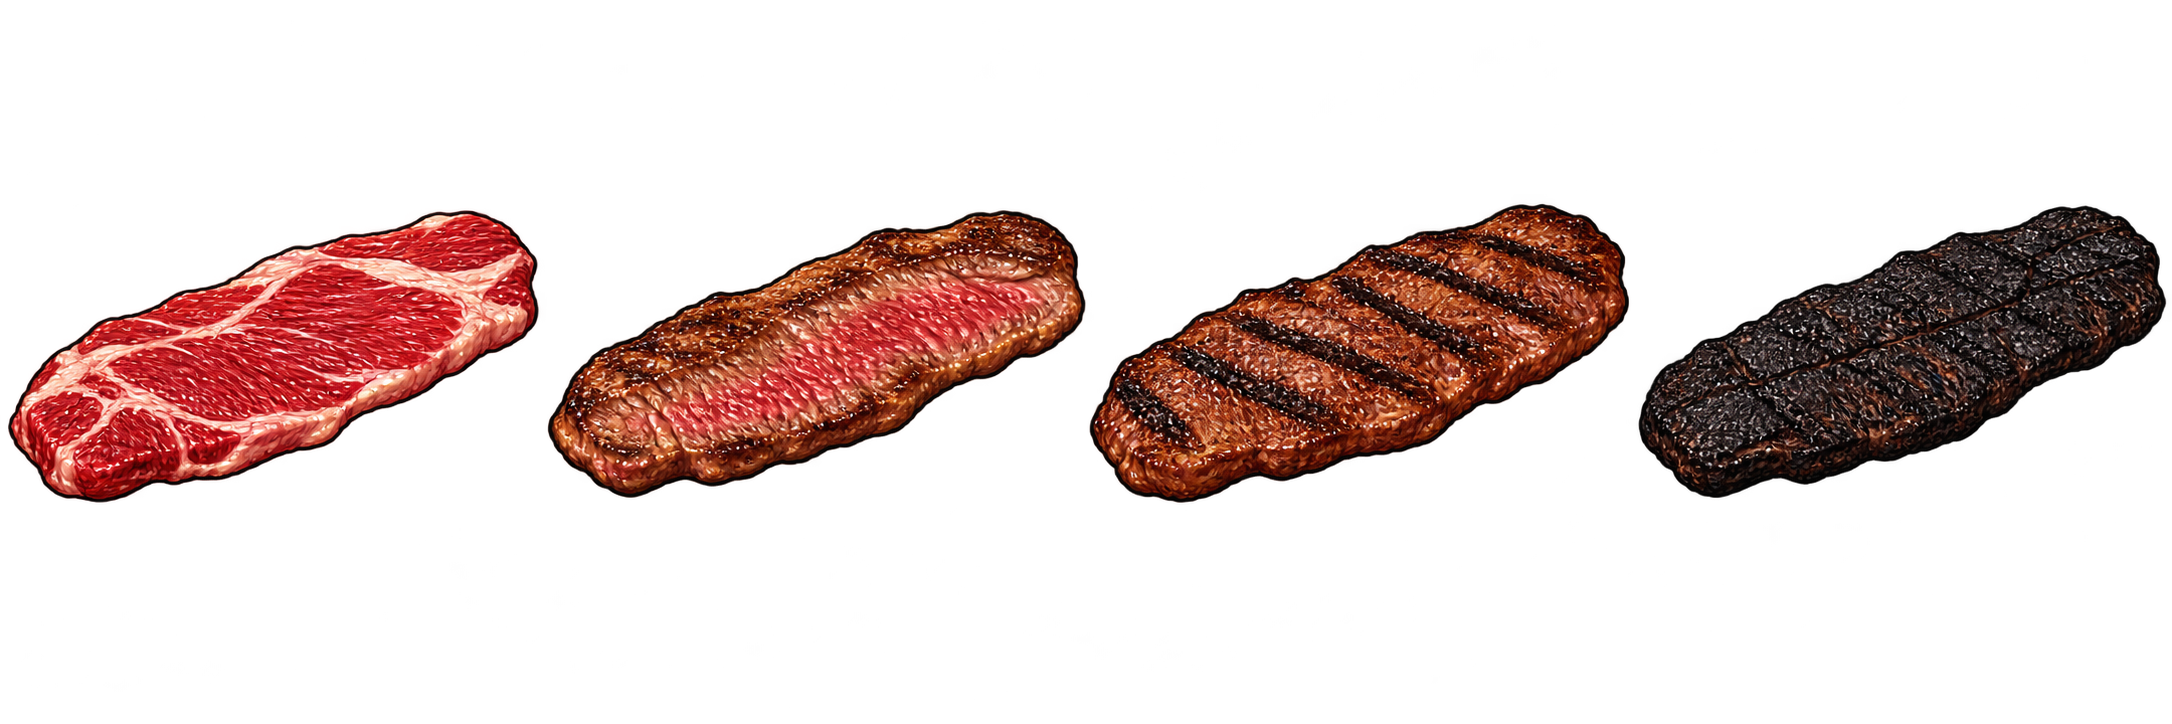
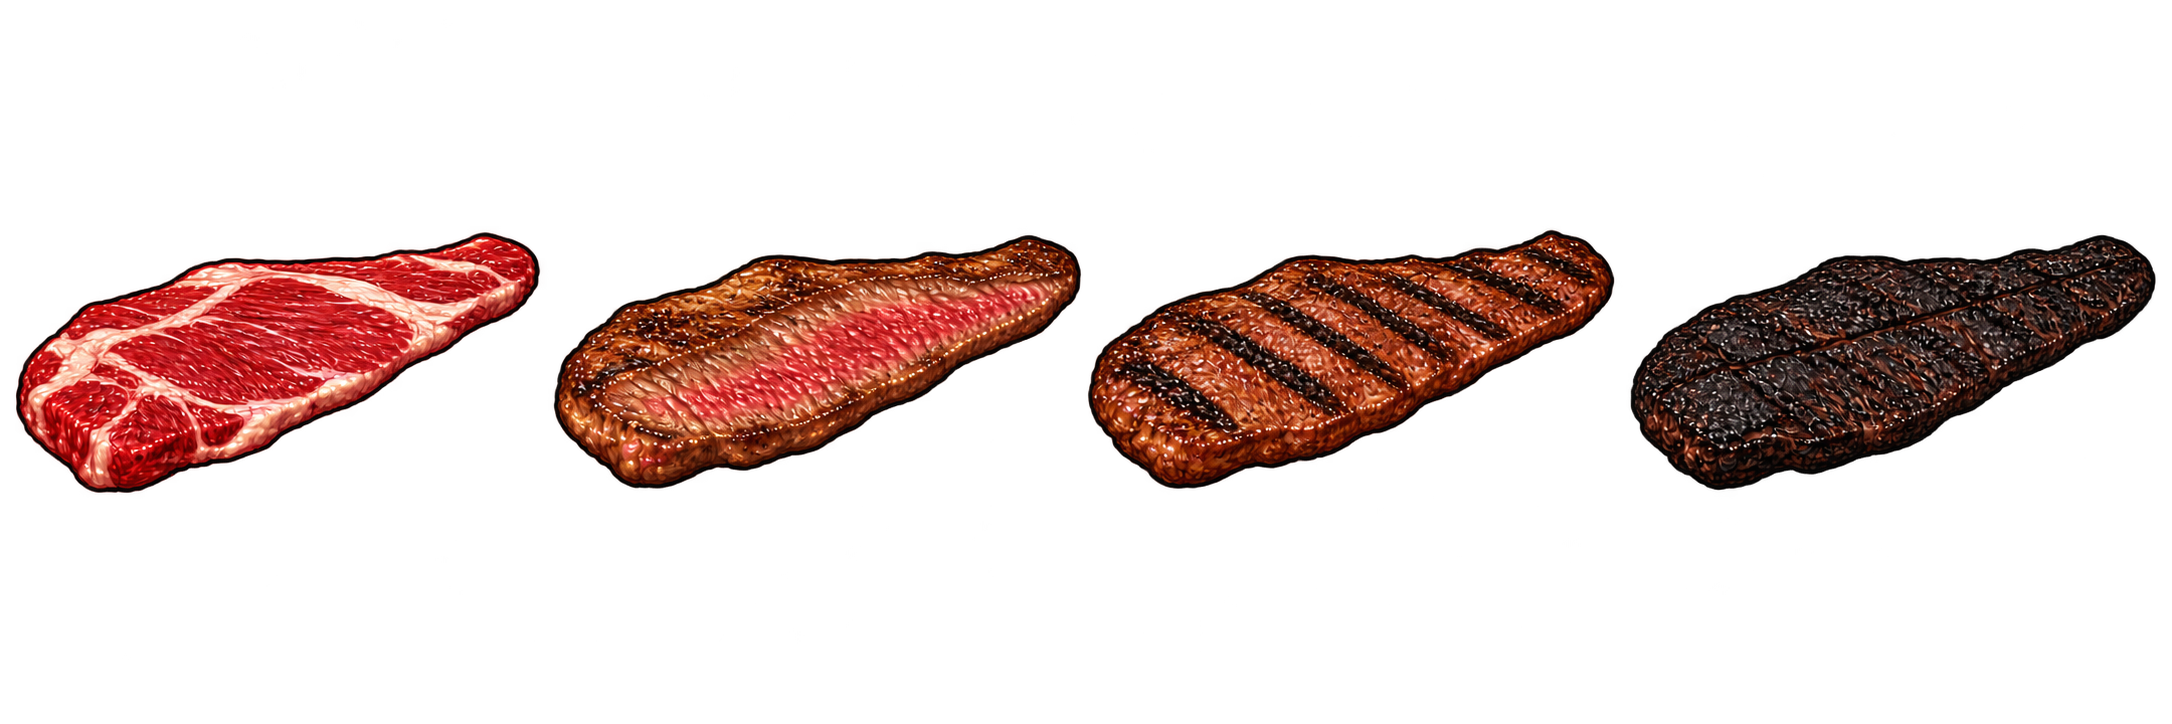
fix(unity): align kitchen stations and refine vacio art

Changed region(s): [[0.0, 0.2735, 1.0, 0.6989]]

diff --git a/Assets/Tests/EditMode/StreetKitchenPresentationTests.cs b/Assets/Tests/EditMode/StreetKitchenPresentationTests.cs
@@ -36,6 +36,7 @@ namespace HayChoriYPaty.Tests
 
         private static object Get(object target, string name) => target.GetType().GetProperty(name, BindingFlags.Public | BindingFlags.Instance).GetValue(target);
         private static Rect RectProperty(string name) => (Rect)Runtime("StreetKitchenLayout").GetProperty(name, BindingFlags.Public | BindingFlags.Static).GetValue(null);
+        private static float SceneWidth() => (float)Runtime("StreetSceneLayout").GetField("Width", BindingFlags.Public | BindingFlags.Static).GetValue(null);
         private static float WorkerServiceY() => (float)Runtime("StreetSceneLayout").GetField("WorkerServiceY", BindingFlags.Public | BindingFlags.Static).GetValue(null);
 
         [Test]
@@ -87,11 +88,17 @@ namespace HayChoriYPaty.Tests
             Rect beer = RectProperty("BeerBarrelBounds"), coca = RectProperty("CocaBarrelBounds");
             Rect normal = RectProperty("NormalTableBounds"), premium = RectProperty("PremiumTableBounds"), fernet = RectProperty("FernetTableBounds");
             Rect normalGrill = RectProperty("NormalGrillBounds"), premiumGrill = RectProperty("PremiumGrillBounds");
-            Assert.Less(beer.xMax, coca.xMin); Assert.Less(coca.xMax, normal.xMin);
             Assert.Less(normal.xMax, premium.xMin); Assert.Less(premium.xMax, fernet.xMin);
+            Assert.Less(fernet.xMax, coca.xMin); Assert.Less(coca.xMax, beer.xMin);
             Assert.AreEqual(normal.size, premium.size); Assert.AreEqual(normal.size, fernet.size);
+            Assert.AreEqual(beer.size, coca.size);
             Assert.AreEqual(normalGrill.width, premiumGrill.width); Assert.AreEqual(normalGrill.height, premiumGrill.height);
+            Assert.AreEqual(normal.y, premium.y); Assert.AreEqual(normal.y, fernet.y);
+            Assert.AreEqual(normal.y, coca.y); Assert.AreEqual(normal.y, beer.y);
+            Assert.LessOrEqual(normal.xMin, 10f); Assert.GreaterOrEqual(beer.xMax, SceneWidth() - 10f);
             Assert.AreEqual(520f, normal.y); Assert.AreEqual(620f, normalGrill.y);
+            Assert.AreEqual(normalGrill.y, premiumGrill.y);
+            Assert.LessOrEqual(normalGrill.xMin, 10f); Assert.GreaterOrEqual(premiumGrill.xMax, SceneWidth() - 10f);
             Assert.AreEqual(30f, normalGrill.y - normal.yMax, .5f);
             Assert.Less(normalGrill.yMax, 716f, "Kitchen must not cover the upgrade/status band.");
             Assert.GreaterOrEqual(normal.y - WorkerServiceY(), 120f);

diff --git a/Assets/Scripts/UI/StreetKitchenRenderer.cs b/Assets/Scripts/UI/StreetKitchenRenderer.cs
@@ -178,13 +178,15 @@ namespace HayChoriYPaty
 
         private void SyncStations()
         {
-            EnsureStation("Station_NormalGrill", StreetKitchenLayout.NormalGrillBounds, Available(0) || Available(1));
-            EnsureStation("Station_PremiumGrill", StreetKitchenLayout.PremiumGrillBounds, Available(2) || Available(3));
-            EnsureStation("Station_NormalTable", StreetKitchenLayout.NormalTableBounds, Available(0) || Available(1));
-            EnsureStation("Station_PremiumTable", StreetKitchenLayout.PremiumTableBounds, Available(2) || Available(3));
-            EnsureStation("Station_FernetTable", StreetKitchenLayout.FernetTableBounds, Available(5));
-            EnsureStation("Station_BeerBarrel", StreetKitchenLayout.BeerBarrelBounds, Available(6));
-            EnsureStation("Station_CocaBarrel", StreetKitchenLayout.CocaBarrelBounds, Available(4));
+            // Show all empty furniture shells in a stable layout; simulation availability still
+            // gates every product, item, worker, and stock flow independently.
+            EnsureStation("Station_NormalGrill", StreetKitchenLayout.NormalGrillBounds, true);
+            EnsureStation("Station_PremiumGrill", StreetKitchenLayout.PremiumGrillBounds, true);
+            EnsureStation("Station_NormalTable", StreetKitchenLayout.NormalTableBounds, true);
+            EnsureStation("Station_PremiumTable", StreetKitchenLayout.PremiumTableBounds, true);
+            EnsureStation("Station_FernetTable", StreetKitchenLayout.FernetTableBounds, true);
+            EnsureStation("Station_BeerBarrel", StreetKitchenLayout.BeerBarrelBounds, true);
+            EnsureStation("Station_CocaBarrel", StreetKitchenLayout.CocaBarrelBounds, true);
         }
 
         private bool Available(int product) => simulation != null && simulation.IsProductAvailable(product);

diff --git a/Assets/Scripts/Core/StreetKitchenLayout.cs b/Assets/Scripts/Core/StreetKitchenLayout.cs
@@ -21,12 +21,13 @@ namespace HayChoriYPaty
         public const float GrillWidth = 352f * Scale, GrillHeight = 117.3333f * Scale;
         public const float BarrelWidth = 50f * Scale, BarrelHeight = 98f * Scale;
 
-        // Preserve five-slot ordering even when a product is not unlocked. Locked stations remain empty.
-        private static readonly Rect Beer = new Rect(14f * Scale, BarrelY, BarrelWidth, BarrelHeight);
-        private static readonly Rect Coca = new Rect(76f * Scale, BarrelY, BarrelWidth, BarrelHeight);
-        private static readonly Rect NormalTable = new Rect(138f * Scale, TableY, TableWidth, TableHeight);
-        private static readonly Rect PremiumTable = new Rect(346f * Scale, TableY, TableWidth, TableHeight);
-        private static readonly Rect FernetTable = new Rect(554f * Scale, TableY, TableWidth, TableHeight);
+        // Upper row order is Normal, Premium, Fernet, Coca, Beer. Equal 12-unit native
+        // margins/gaps use the available width while preserving the current station sizes.
+        private static readonly Rect NormalTable = new Rect(12f * Scale, TableY, TableWidth, TableHeight);
+        private static readonly Rect PremiumTable = new Rect(220f * Scale, TableY, TableWidth, TableHeight);
+        private static readonly Rect FernetTable = new Rect(428f * Scale, TableY, TableWidth, TableHeight);
+        private static readonly Rect Coca = new Rect(636f * Scale, BarrelY, BarrelWidth, BarrelHeight);
+        private static readonly Rect Beer = new Rect(698f * Scale, BarrelY, BarrelWidth, BarrelHeight);
         private static readonly Rect NormalGrill = new Rect(14f * Scale, GrillY, GrillWidth, GrillHeight);
         private static readonly Rect PremiumGrill = new Rect(394f * Scale, GrillY, GrillWidth, GrillHeight);
 

diff --git a/specs/features/modular-kitchen.md b/specs/features/modular-kitchen.md
@@ -59,7 +59,7 @@ Built-in `image_gen` only (not a paid external API/CLI). Original PNGs saved und
 | meat-chori | Four equal horizontal frame cells: shallow horizontal curved elongated sausage (final variant uses simplified cartoon shading) raw pink→part brown→grill-marked cooked redbrown→black burned; same outline/angle, transparent margin in each cell. |
 | meat-paty | Four equal cells: relatively flat circular medallion raw pink→partial browning→brown grill marks→black burned; no bread. |
 | meat-bondiola | Four equal cells: thick high compact approximately cylindrical irregular pork neck roast, not steak/shredded meat; raw marbling→partial browning→golden grill marks→black char. |
-| meat-vacio | Four equal cells: long flat irregular beef flank, not patty/roast; raw red/fat→partial browning→grill marks→black char. |
+| meat-vacio | Four equal cells: long flat, asymmetric flank cut with one fuller end gradually tapering toward a narrower tip; not patty/roast; raw red/fat→partial browning→grill marks→black char. |
 | sandwich-chori | One choripán, curved grilled chorizo visibly inside elongated golden bread, chimichurri; no plate/table. |
 | sandwich-paty | One rounded bread burger, visible circular flat beef patty, thin tomato/lettuce; no sausage/pork. |
 | sandwich-bondiola | Bread roll with thick compact roast-pork slices, juicy marbled interior; no shredded pulled pork or beef patty. |
@@ -78,6 +78,8 @@ Texture sources use NPOTScale.None to preserve original dimensions, mipmaps and 
 ## Verified acceptance —2026-10-07
 
 - Native import:17PNG sources,29persistent Sprite resources,21prefabs; GUID-stable regeneration verified in ignored `Logs/Acceptance/ModularKitchen-20261007/rebuild-verification.json`.
+- 2026-10-08 visual refinement: the user-supplied grilled-meat photo is shape-only guidance for Vacío. Its independent four-state source now has a slightly broader left end tapering to a narrower right tip; state order, transparent four-cell layout and 2172×724 texture remain unchanged. Existing `.meta`/texture GUID is preserved; Unity reimport confirmed all Raw/Cooking/Cooked/Burned Sprite assets still load from the same-size texture with NPOTScale.None, mipmaps, Trilinear and alpha. `StreetKitchenPresentationTests` passed5/5 after import. Sandwich, cooking logic, positions and inventory were not changed. Existing APK0.2.17/code19 predates this PNG edit; no APK was rebuilt.
+- 2026-10-08 layout-only correction: top furniture order is Normal, Premium, Fernet, Coca, Beer; equal 196×98-native table bounds and equal 50×98-native barrel bounds use12-native-unit margins/gaps across the 540-unit canvas. The two unchanged352×117.333-native grills share y=620 and span x=9.95–530.13 (96.3% canvas width). All station shells render even when their product is locked, but the simulation continues to gate products, inventory and workers by the original level catalog. Bounds-backed pickup centers move with tables/barrels; worker lane and pickup y anchors remain unchanged. Portrait Main Game View (`Logs/Acceptance/StationLayout-20261008/station-layout-final-settled.png`, 788×1400) confirms the five upper stations and two aligned large grills fit without overlaps/offscreen. Focused `StreetKitchenPresentationTests` passed5/5, including route-clearance checks across all11 catalogs.
 - Affected EditMode149/149 (`c40409e402974e1a9038809056c6916e`), final kitchen-only12/12 (`94a96f1af330480290b425aad7b774ee`). Full project suites not repeated; historical art/geometry tests are compatibility evidence, not new live geometry proof.
 - Mouse/touch/start/specialty purchase PlayMode4/4 (`f0e7761596594ca8bf942a8df691fb21`); native tall-anchor/individual carried-object removal regression1/1 (`c3dbf7bcbb8046f9a8c2437eb8e7fa91`). Zero current Unity console errors/warnings.
 - Actual Main GameViews inspected: `independiente-final.png`1080×1920, corrected `independiente-tall-corrected.png`1220×2712, `ferro-final.png` and `floresta-final.png`, under ignored `Logs/Acceptance/ModularKitchen-20261007`. Paired grills, empty independent furniture, product-separated slots,4compact cylindrical Bondiolas/3Vacíos in full catalog, equivalent-size tables, blue plastic barrels with separate containers/ice and large straw-free Fernet glasses are native independent objects. Counter/crowd/club art and existing controls stay intact. Tall projection keeps internal food offsets anchored to the correct grill/table without stretching sprites or floating meats.

diff --git a/specs/status.md b/specs/status.md
@@ -6,7 +6,15 @@ User approved real production/stock and responsive kitchen fitting. Main now con
 
 Validated149affected EditMode checks (`c40409e402974e1a9038809056c6916e`); final kitchen production/presentation12/12 (`94a96f1af330480290b425aad7b774ee`); four mouse/touch/start/specialty PlayMode cases4/4 (`f0e7761596594ca8bf942a8df691fb21`). Actual Main GameViews checked native composition, all-food profile, barrels/glasses, stock48/36/45,4cylindricalBondiolas/3Vacíos and distinctnormal foods. Native180objects matched180real IDs with0state mismatches;2consumedcarriedIDs removed2objects and handoffs4→6earned20→30. Editor-only2000step/178unit probe587→117ms after full-table early exit; not a phone benchmark. Tall QA exposed a meat-anchor bug (using table instead of grill) now fixed, with native regression1/1 (`c3dbf7bcbb8046f9a8c2437eb8e7fa91`) and corrected1220×2712capture. Initial unexecuted test-job timeouts are not counted; explicit all/assets refresh is required before compiling a newly created test file.
 
-Final corrected tall and Floresta/Ferro/all-food Main GameViews inspected;0console errors/warnings. Exact prior save/GameView19/timeScale1/background=false restored, Play stopped and Main clean. Scoped implementation commit `d2741dbedf35161a0498eca7c09110dbd372269c` was pushed on `codex/street-automation`. A current-source Main-only Android APK0.2.17/code19 is now built and package/signature verified; installation to Motorola Edge60 Fusion remains pending USB reconnection.
+Final corrected tall and Floresta/Ferro/all-food Main GameViews inspected;0console errors/warnings. Exact prior save/GameView19/timeScale1/background=false restored, Play stopped and Main clean. Scoped implementation commit `d2741dbedf35161a0498eca7c09110dbd372269c` was pushed on `codex/street-automation`.
+
+## Vacío sprite refinement — 2026-10-08
+
+The isolated four-state Vacío cut is now asymmetrical: a slightly broader end gradually tapers to a narrower tip, matching the user photo as shape reference only. Replaced `Assets/Resources/ModularKitchen/Art/meat-vacio.png` at its original 2172×724 size and retained its `.meta` GUID; Unity confirmed all four existing Sprite states load unchanged and the focused `StreetKitchenPresentationTests` passed5/5. No gameplay, sandwich, inventory, layout or prefab changes. APK0.2.17/code19 above predates this art refinement; no new APK was built. Full detail: `features/modular-kitchen.md`.
+
+## Station layout correction — 2026-10-08
+
+Reordered the upper row to Normal table, Premium table, Fernet table, Coca barrel, Beer barrel. Three tables remain equal at139.3×69.6 logical units; both barrels remain equal at35.5×69.6. Their bounds run across x8.5–531.6 at y520. Both grills remain equal at250.1×83.4, aligned at y620, from x9.9 to530.1 overall (96.3% of the540-unit canvas width). All seven empty furniture shells remain visible at every level; no locked products, stock, or worker roles were unlocked. Table/barrel pickup centers and footprint bounds follow the new station rectangles, with existing route lane/y anchors unchanged. Actual portrait Game View inspected at `Logs/Acceptance/StationLayout-20261008/station-layout-final-settled.png` (788×1400): all five upper stations and both lower grills are on-screen and separated. Focused `StreetKitchenPresentationTests` passed5/5, including all11-level route-clearance and unchanged-catalog checks. No gameplay, progression, HUD, prices or timer code changed. For the required Game View check, the normal level-0 StartRound path was invoked and performed its existing PlayerPrefs save; Unity is left paused because the pre-preview PlayerPrefs value was not snapshotted, so stopping Play may save again. No hires, sales, or progression were performed.
 
 ## Latest Android APK — modular kitchen 0.2.17/code19 (2026-10-08)
 
